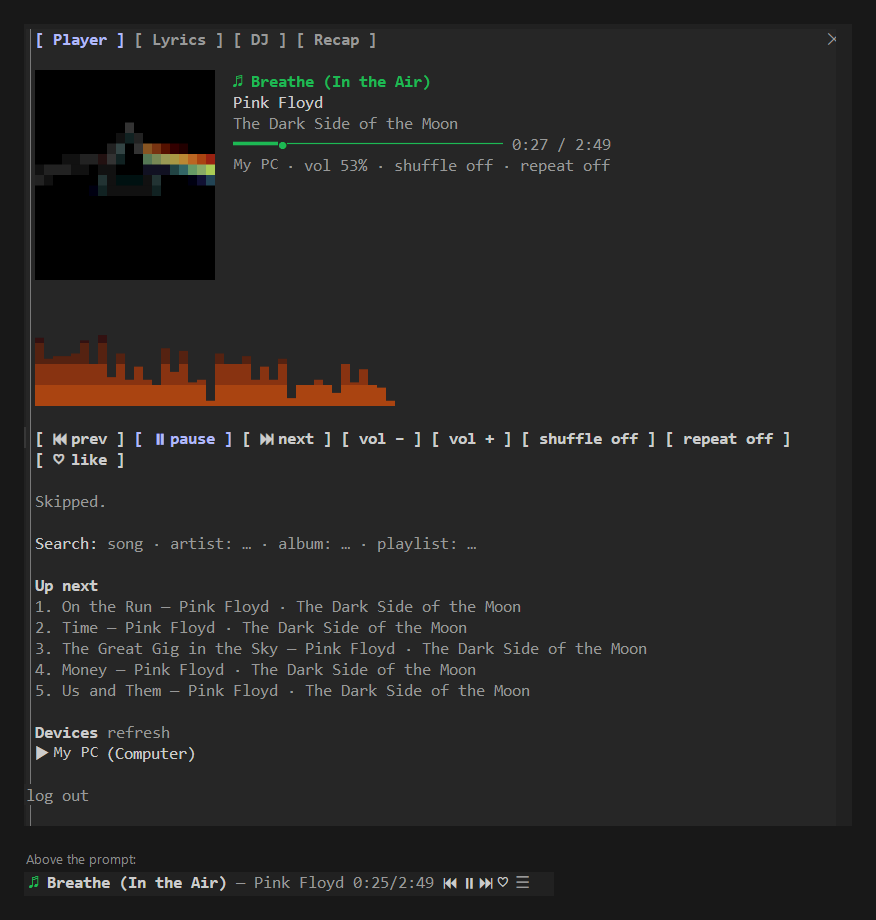
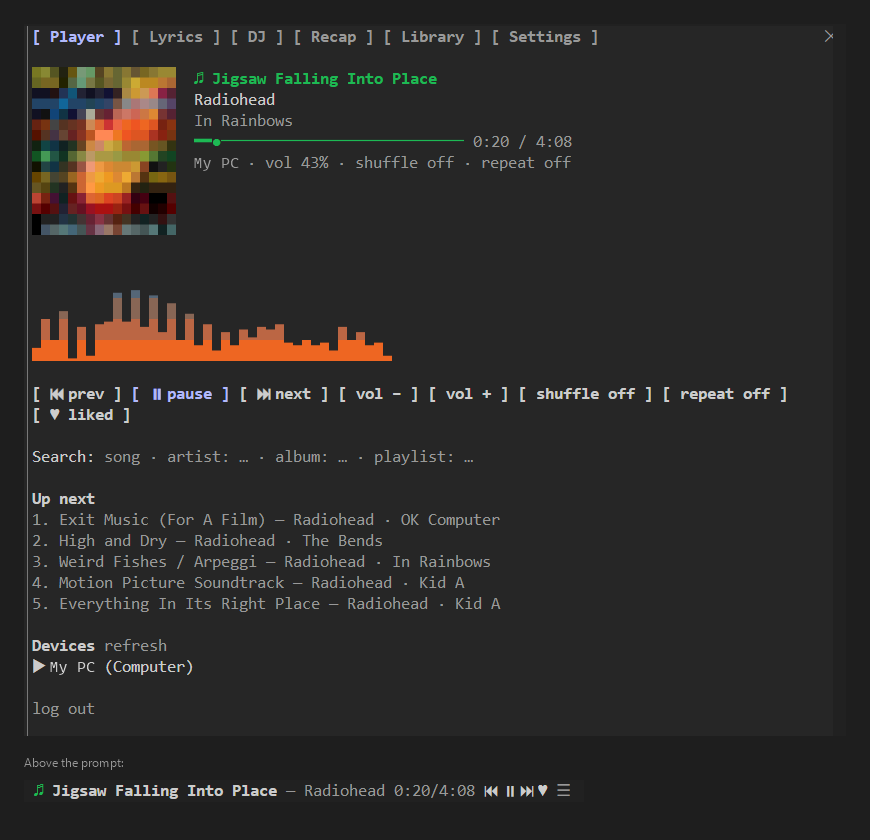
Explain where the pane opens, and refresh the screenshot
The pane docks beside the conversation only in Claude Code's fullscreen
layout with a terminal at least 110 columns wide; otherwise it opens
above the prompt. Say so in the README, with how to switch.

The screenshot now shows all six tabs.

diff --git a/README.md b/README.md
@@ -136,6 +136,15 @@ Sound settings have a **▶ test** button on the settings page. None of the soun
 
 Pane hotkeys: `1`–`6` switch tabs. Player: `p` play/pause, `n` next, `b` back, `u`/`d` volume, `s` shuffle, `r` repeat, `l` like. Lyrics: `z` earlier, `x` later, `c` reset. DJ: `j` spin a set, `a` autopilot. Recap: `p` play all, `v` save as playlist, `y` copy summary. Library: `q` playlists, `w` Liked Songs, `e` recently played.
 
+## Pane beside the conversation or above the prompt
+
+Claude Code decides where the pane goes, not the mod:
+
+- **Beside the conversation, on the right:** Claude Code's fullscreen layout, with the terminal at least 110 columns wide.
+- **Above the prompt:** the default layout, or a narrower terminal.
+
+If the pane opens above the prompt and you want it on the side, run `/tui fullscreen`, or set `"tui": "fullscreen"` in `~/.claude/settings.json` and restart Claude Code. Then widen the window if needed and run `/spotify` again. To get the inline pane back, use `/tui default`.
+
 ## Privacy and security
 
 - Your client ID and login are stored by Claude Code in the plugin's store under your Claude configuration directory, never in this repository. On Windows the refresh token is encrypted with DPAPI for your user account (passed to PowerShell on stdin, never on a command line), and the short-lived access token is kept in memory only. `/spotify logout` deletes it all.
